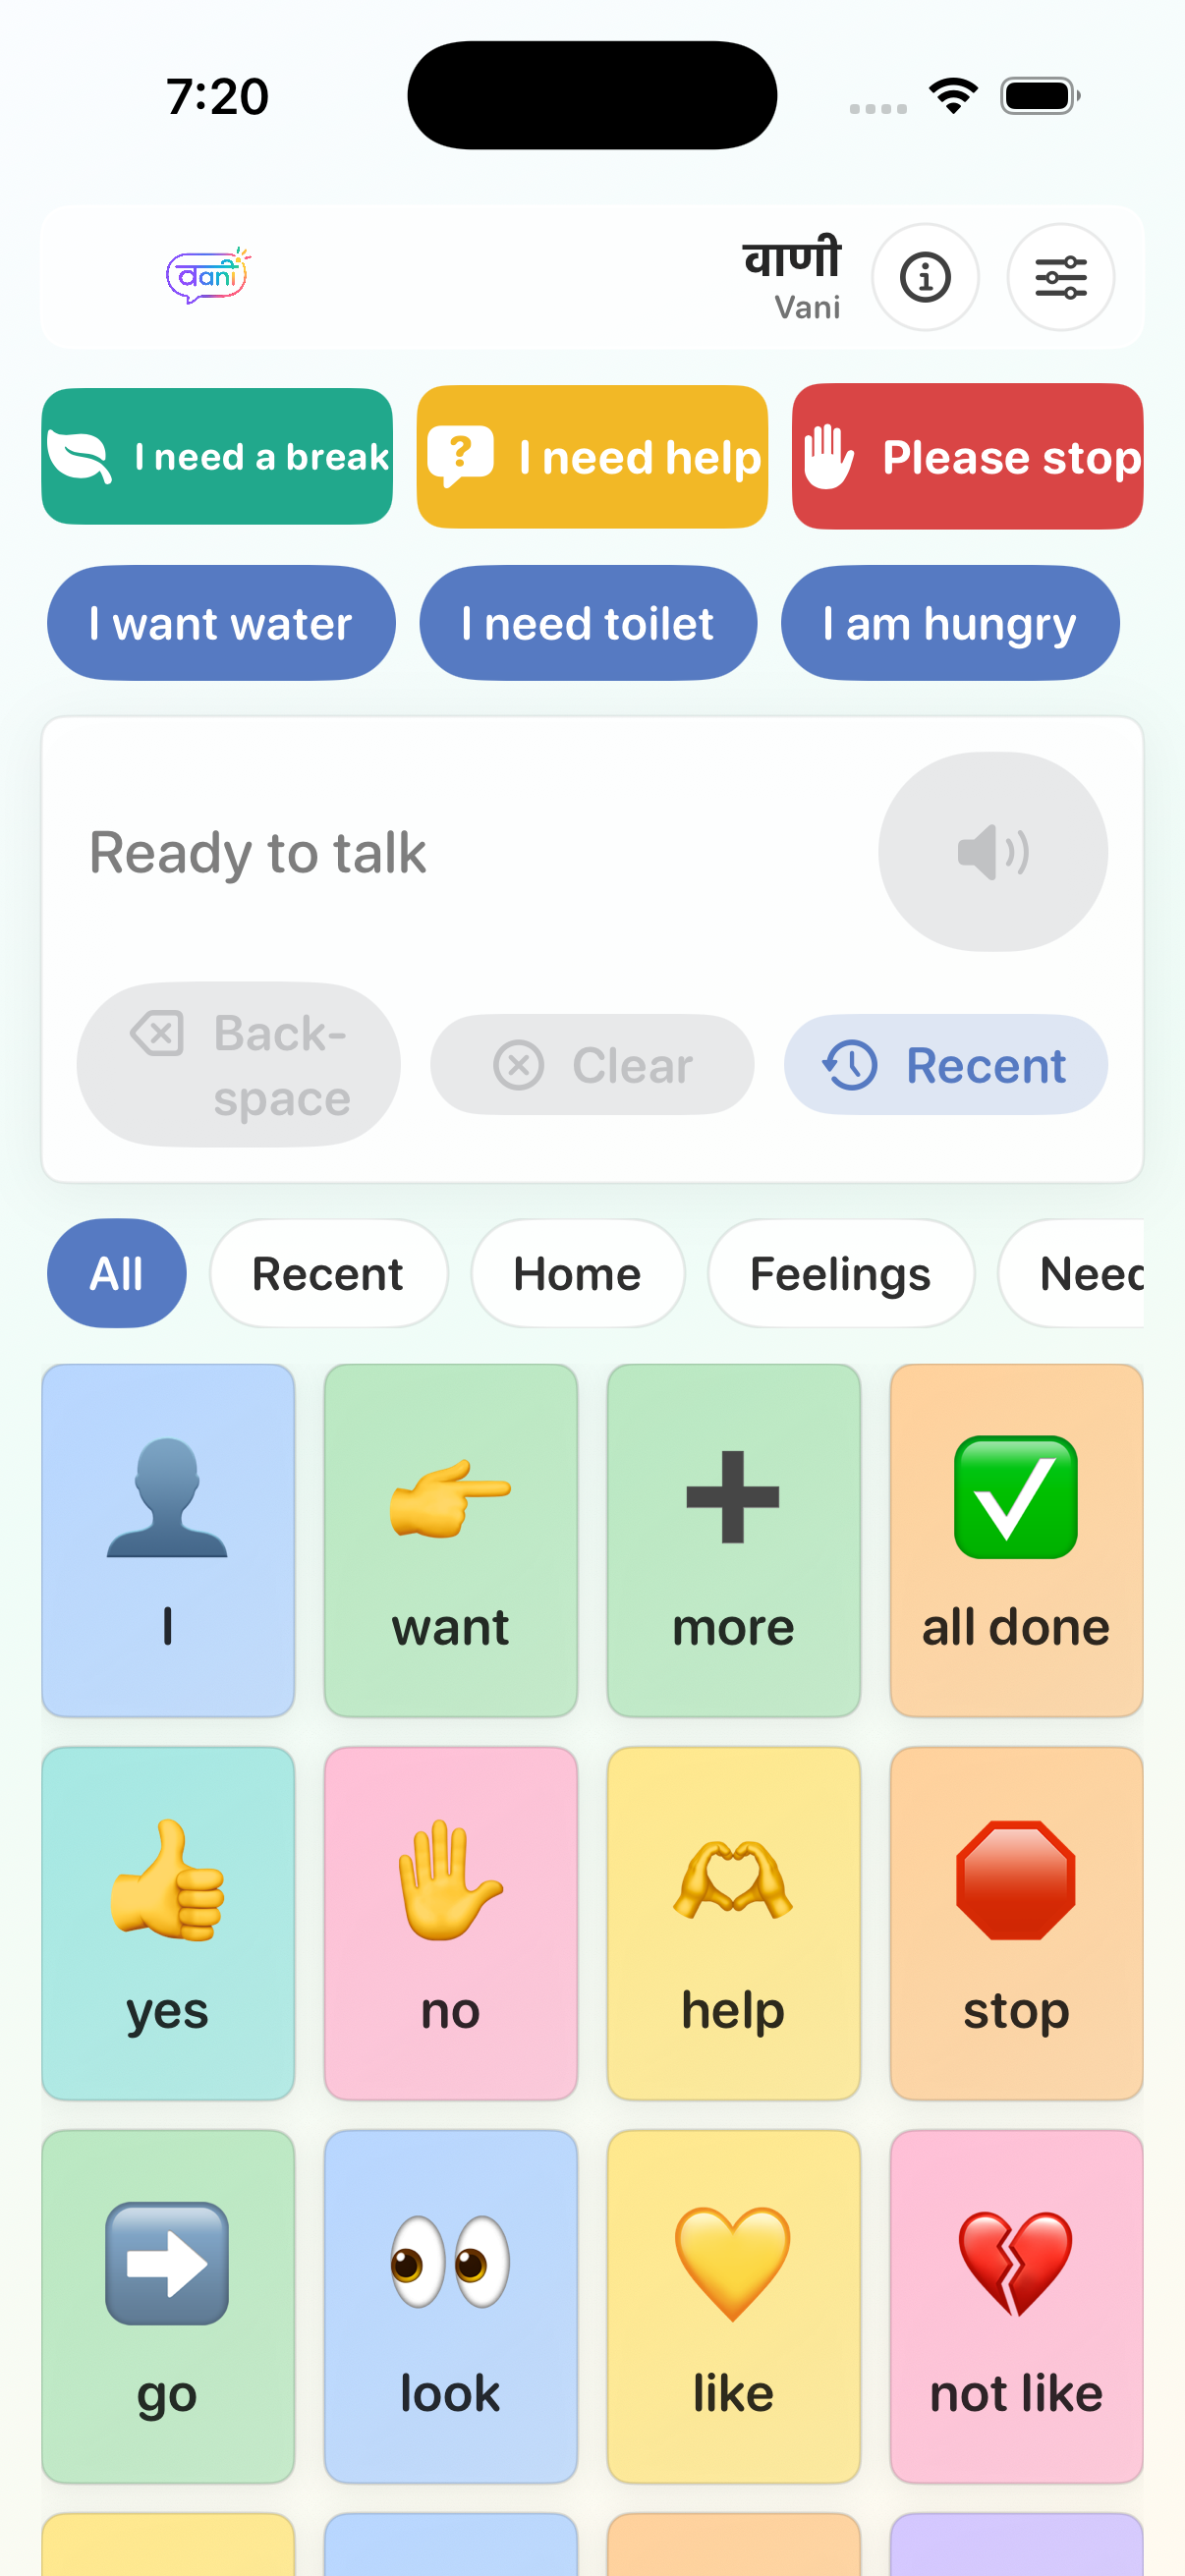
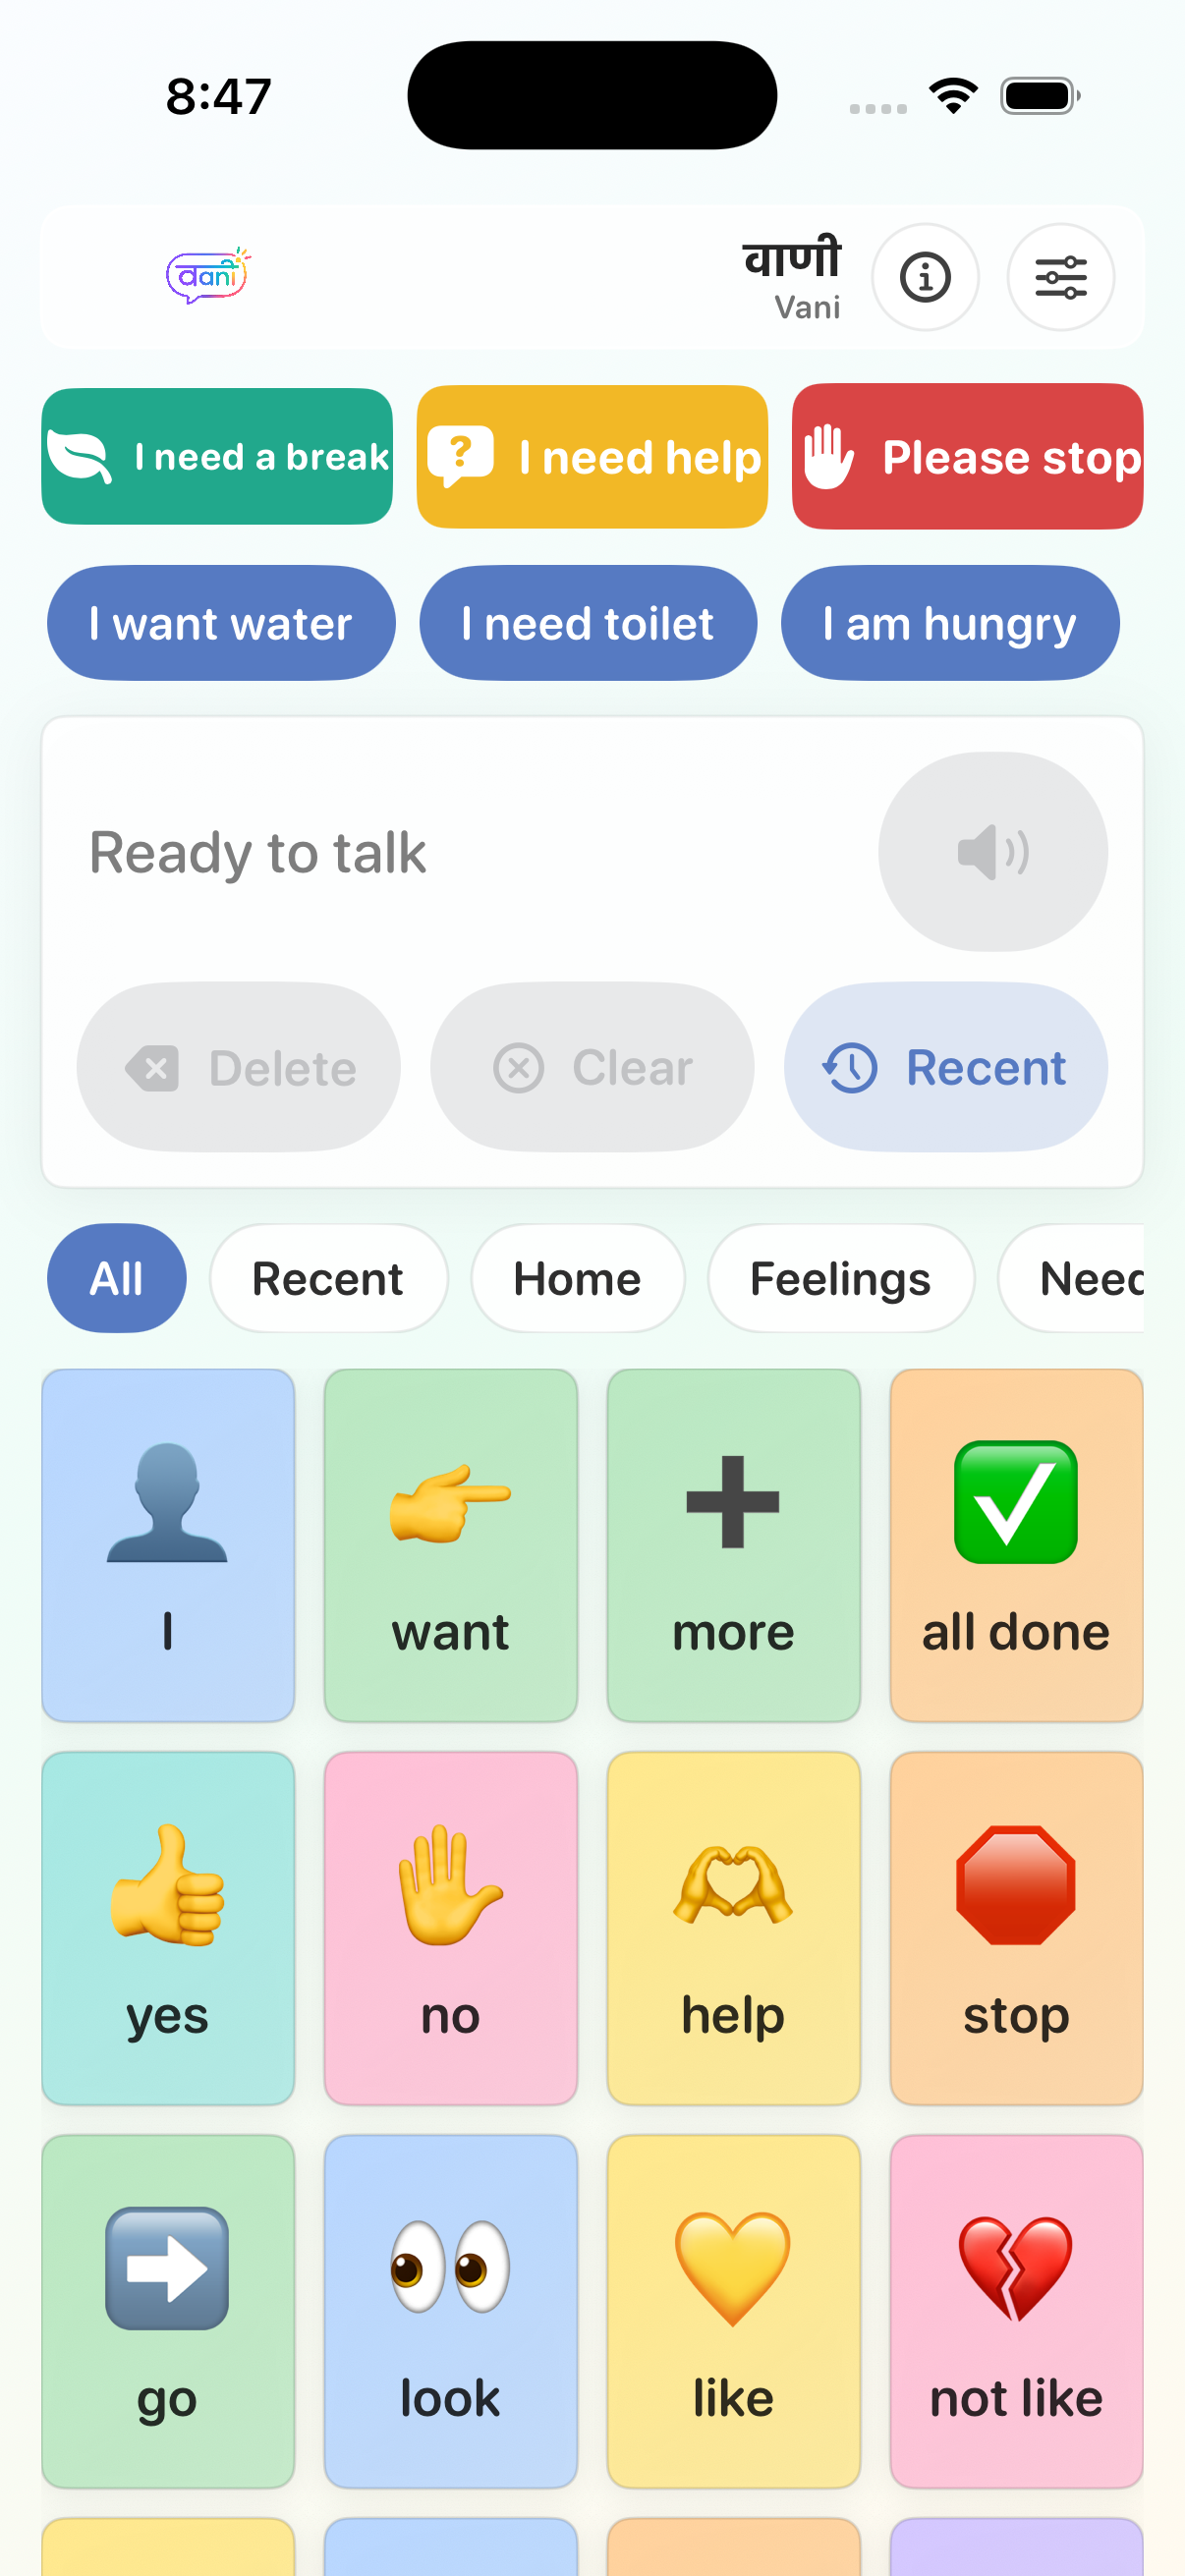
feat: update screenshots to new app design (Delete button, refreshed UI)
Recaptured iPhone board, iPhone sentence, and iPad board from the rebuilt app.
Demo section simplified to a single centered phone; removed old-design captures.

diff --git a/index.html b/index.html
@@ -164,10 +164,6 @@
             <source data-src="assets/demo.mp4" type="video/mp4" />
           </video>
         </div>
-        <div class="phone phone--side">
-          <div class="phone__island" aria-hidden="true"></div>
-          <img src="assets/screens/recent.png" alt="Vani Recent category showing the words a child uses most: no, want, help, I" />
-        </div>
       </div>
     </section>
 